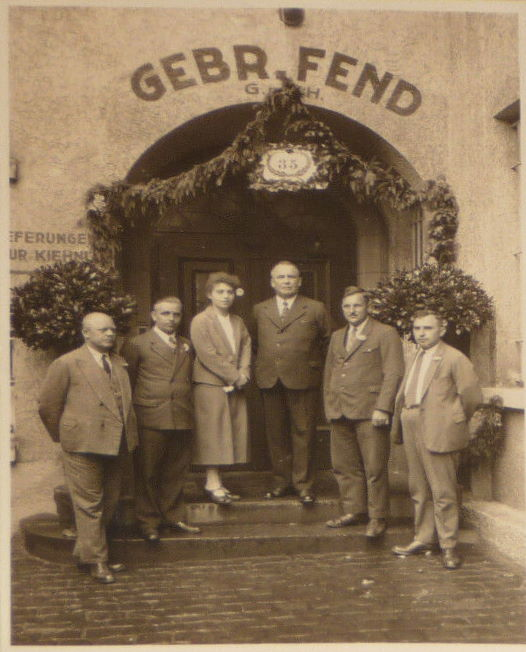
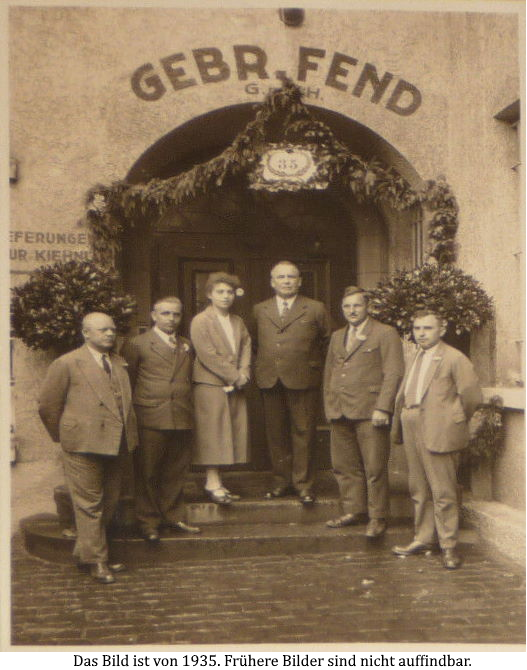
e

diff --git a/fend.html b/fend.html
@@ -25,7 +25,7 @@
 
             <h2>Fend Vierfarbkugelschreiber- und Buntstifte</h2>
 			<h4 style="color:#666666; margin-top:-20px">Fend Norma, Fend Super-Norma, Fend Mehrfarbstifte</h4>
-			<p style="font-size:12px; margin-top:-20px; text-align:right">Stand: 27.05.2026</p>
+			<p style="font-size:12px; margin-top:-20px; text-align:right">Stand: 11.08.2026</p>
 			<hr>
 
 			<h3>Geschichte der Firma</h3>
@@ -38,26 +38,29 @@
 			
 			Während Georg ein Geschäftsmann war, spezialisierte Karl sich als gelernter Bleistiftmacher im Technischen. Und so machten sie mit nur wenigen Tausend Mark ihre eigene 
 			Fabrik für Metallstifte auf. 
-			<br><br>
+			<br><br></span>
 
 			Das erste nachweisbare Produkt der Fabrik sind Fallstifte, angemeldet im Jahr 1901.<br>      
 			
 			
-			
 			Es folgten eigene <b>Drehbleistifte, Füllfederhalter, als auch Kombinationen aus Füllfederhalter und Drehbleistiften.</b> <br>
-			Sie bestanden aus edlen wie auch unedlen Metallen, und zumindest 1910 sind auch die Materialien Galalith und Hartgummi belegt.<br><span class="bildanker" data-bild="bild1"></span><br>
 			
-					
+			Sie bestanden aus edlen wie auch unedlen Metallen, und zumindest 1910 sind auch die Materialien Galalith und Hartgummi belegt.
+			<br><br><span class="bildanker" data-bild="bild8"></span>
 			
 			1905 stieß Goldschmied <b>Heinrich Fend</b> dazu. <br>
-			Am 15.9.1905 gingen Georg und Karl eine offene Handelsgesellschaft ein, in welche später auch Heinrich eintrat.<sup class="fnup"><a></a></sup> <br><span class="bildanker" data-bild="bild2"></span><br>
-			
+			Am 15.9.1905 gingen Georg und Karl eine offene Handelsgesellschaft ein, in welche später auch Heinrich eintrat.<sup class="fnup"><a></a></sup><br><br>
+				
 			1909 wurde eine <b>Zweigniederlassung in Nürnberg</b> gegründet. Für diese wurde Oskar Härpfer, selbst Erfinder und Fabrikant von mechanischen Bleistiften, 
 			Prokura erteilt.<br>
-			Gustav Fend, ursprünglich Maler, leitete die Filiale in Nürnberg. 1912 trat auch er nun in die Firma ein.<sup class="fnup"><a></a></sup> <br><br>  
+			
+			Gustav Fend, ursprünglich Maler, leitete die Filiale in Nürnberg. 1912 trat auch er nun in die Firma ein.<sup class="fnup"><a></a></sup> <br>
+			<br>  
 
 			Neben Schreibinstrumenten wurde auch eine Produktpalette an <b>Gebrauchsgegenständen</b> aufgebaut. Diese reichten von Artikeln zur Schönheits- und Körperpflege, wie 
 			Zahnstochern, Kämmen, Puderdosen, Lippenstifthalter, hin zu Messern, Feuerzeugen und Thermometern. <br><br>
+
+	
 
 			Ihre unerlässliche Mühen und nebenbei auch die finanzielle Unterstützung durch die Pforzheimer Bank <i>Greb & Frühauf</i><sup class="fnup"><a></a></sup> verhalfen der Firma schnell zu <b>großem Erfolg</b>. <br>
 			Mehrfach mussten sie aus Kapazitätsgründen umziehen, so befanden sie sich später auch in der Dillsteiner Straße, in der Kiehnlestraße, und der Enzstraße, wo sie bereits 120 Mitarbeiter (vor 1918) beschäftigen konnten. <br><br>
@@ -100,17 +103,35 @@
 			Doch spezifisch Vierfarbstifte gab es schon Jahrzehnte zuvor, und die Ursprünge von Mehrfarbstiften an sich liegen im viktorianischen Zeitalter Englands.<br><br>
 
 			1932 starb <b>Gustav Fend.</b> <br><br>
+			
+			<span class="bildanker" data-bild="bild2">	
+			1934 meldete die Firma Gebrüder Fend ein Warenzeichen mit ihren Initalien '<b>G.F.</b>' an. 
+			In Produktblättern referierte man zu den Stiften als 'G.F.-Stifte'. <br>
+			Spätestens in den 1940ern verwarf man diesen Versuch dann aber wieder. 
+			
+	
+			<br><br>
+			
 			<span class="bildanker" data-bild="bild7"></span>
 			Aufbauend auf dem Norma folgte <b>1936</b> mit dem von <b>Kurt Fend</b> 
 			erfundenen <br> <a href="fendSupernorma.html"><i><b>Fend Super Norma</b></i></a>(Unterartikel) potentiell einer der größten Erfolge der Firmengeschichte: Die <b>Sperrhülsenautomatik</b> wurde erstmals in einem Mehrfarbstift
 			zum einfachen Farbwechseln verbaut. <br><br>
 			<img src="images/fendsupernorma.png" style="height:120px; display: block; margin: 0 auto;">	<br>
 			
-<span class="bildanker" data-bild="bild8"></span>
+
 			Ebenfalls 1936 wurde die Firma Fend zur Kommanditgesellschaft. Zu dieser Zeit beschäftigte Fend fast 500 Mitarbeiter. <br>
+			
 			Zwischen 1936 und 1938 traten die Gründer <b>Georg und Karl</b> zurück und übergaben die Firma an <b>Kurt Fend</b> und Carl Jaißle.
 		 <br>
 			Zum 2.2.1939 schied Heinrich Fend als haftender Gesellschafter aus. <br><br>
+<span class="bildanker" data-bild="bild12"></span> 
+			
+			Aus 1941 ist ein weiteres Warenzeichen mit den Initalien der Firma bekannt. Dieses besaß ein gespiegeltes F, wobei jede der Spiegelungen wohlmöglich für einen der beiden
+			Gründerbrüder Karl und Georg Fend stehen sollte. <br><br>
+
+			Der Fend-Schriftzug mit Unterstreichung und langgezogenem F übernahm aber ungefähr um diese Zeit herum die Repräsentation. 
+			<span class="bildanker" data-bild="bild1"></span>
+			<br><br>
 
 			1941 ist erstmals eine <b>Berliner Niederlassung</b> belegt. Diese befand sich in SW68, Schützenstraße 31, und wurde von Wilhelm Ley vertreten. 
 			1943 bestand sie noch. <br><br>
@@ -301,6 +322,7 @@
 				<img id="bild9" src="images/markeFend.png" data-scale="1."> 
 				<img  id="bild10" src="images/markeFend2.png" data-scale="1.">
 				<img  id="bild11" src="images/profile.png" data-scale="0.6">
+				<img  id="bild12" src="images/logos/logo62.png" data-scale="0.45">
 		</div>
 		
 <div class="clear"></div> <!-- wichtig damit float zurückgesetzt wird -->
